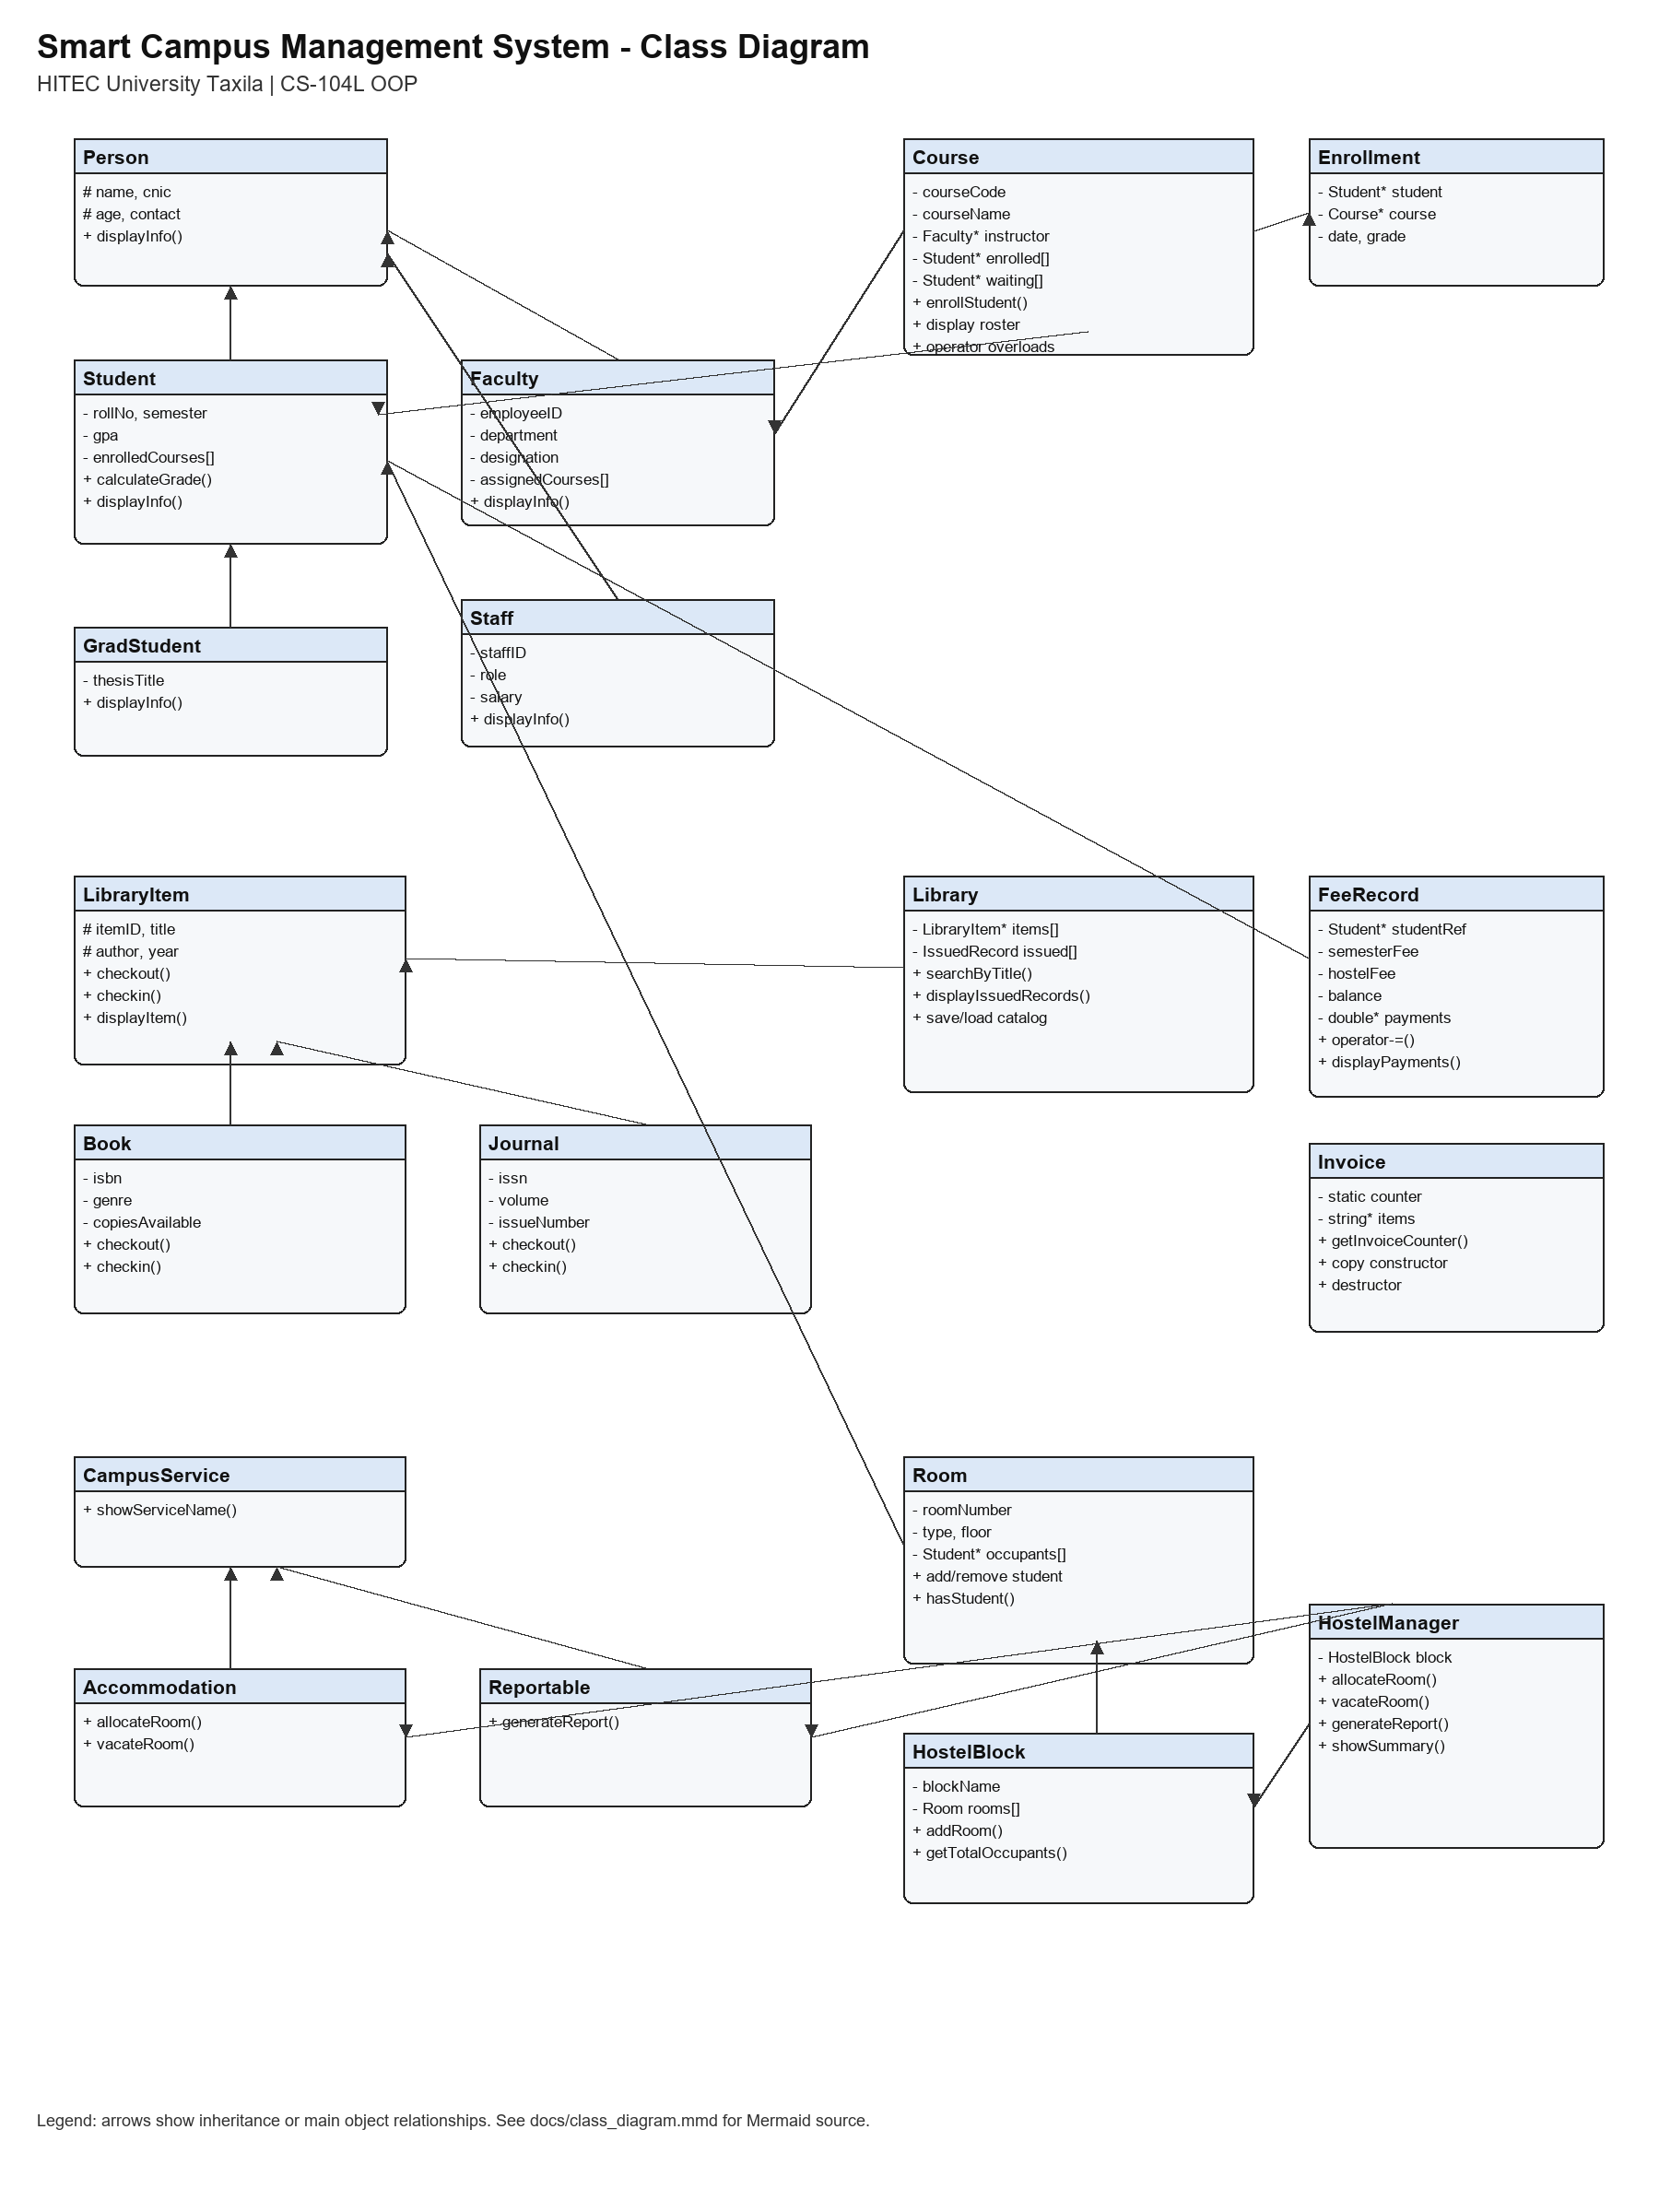
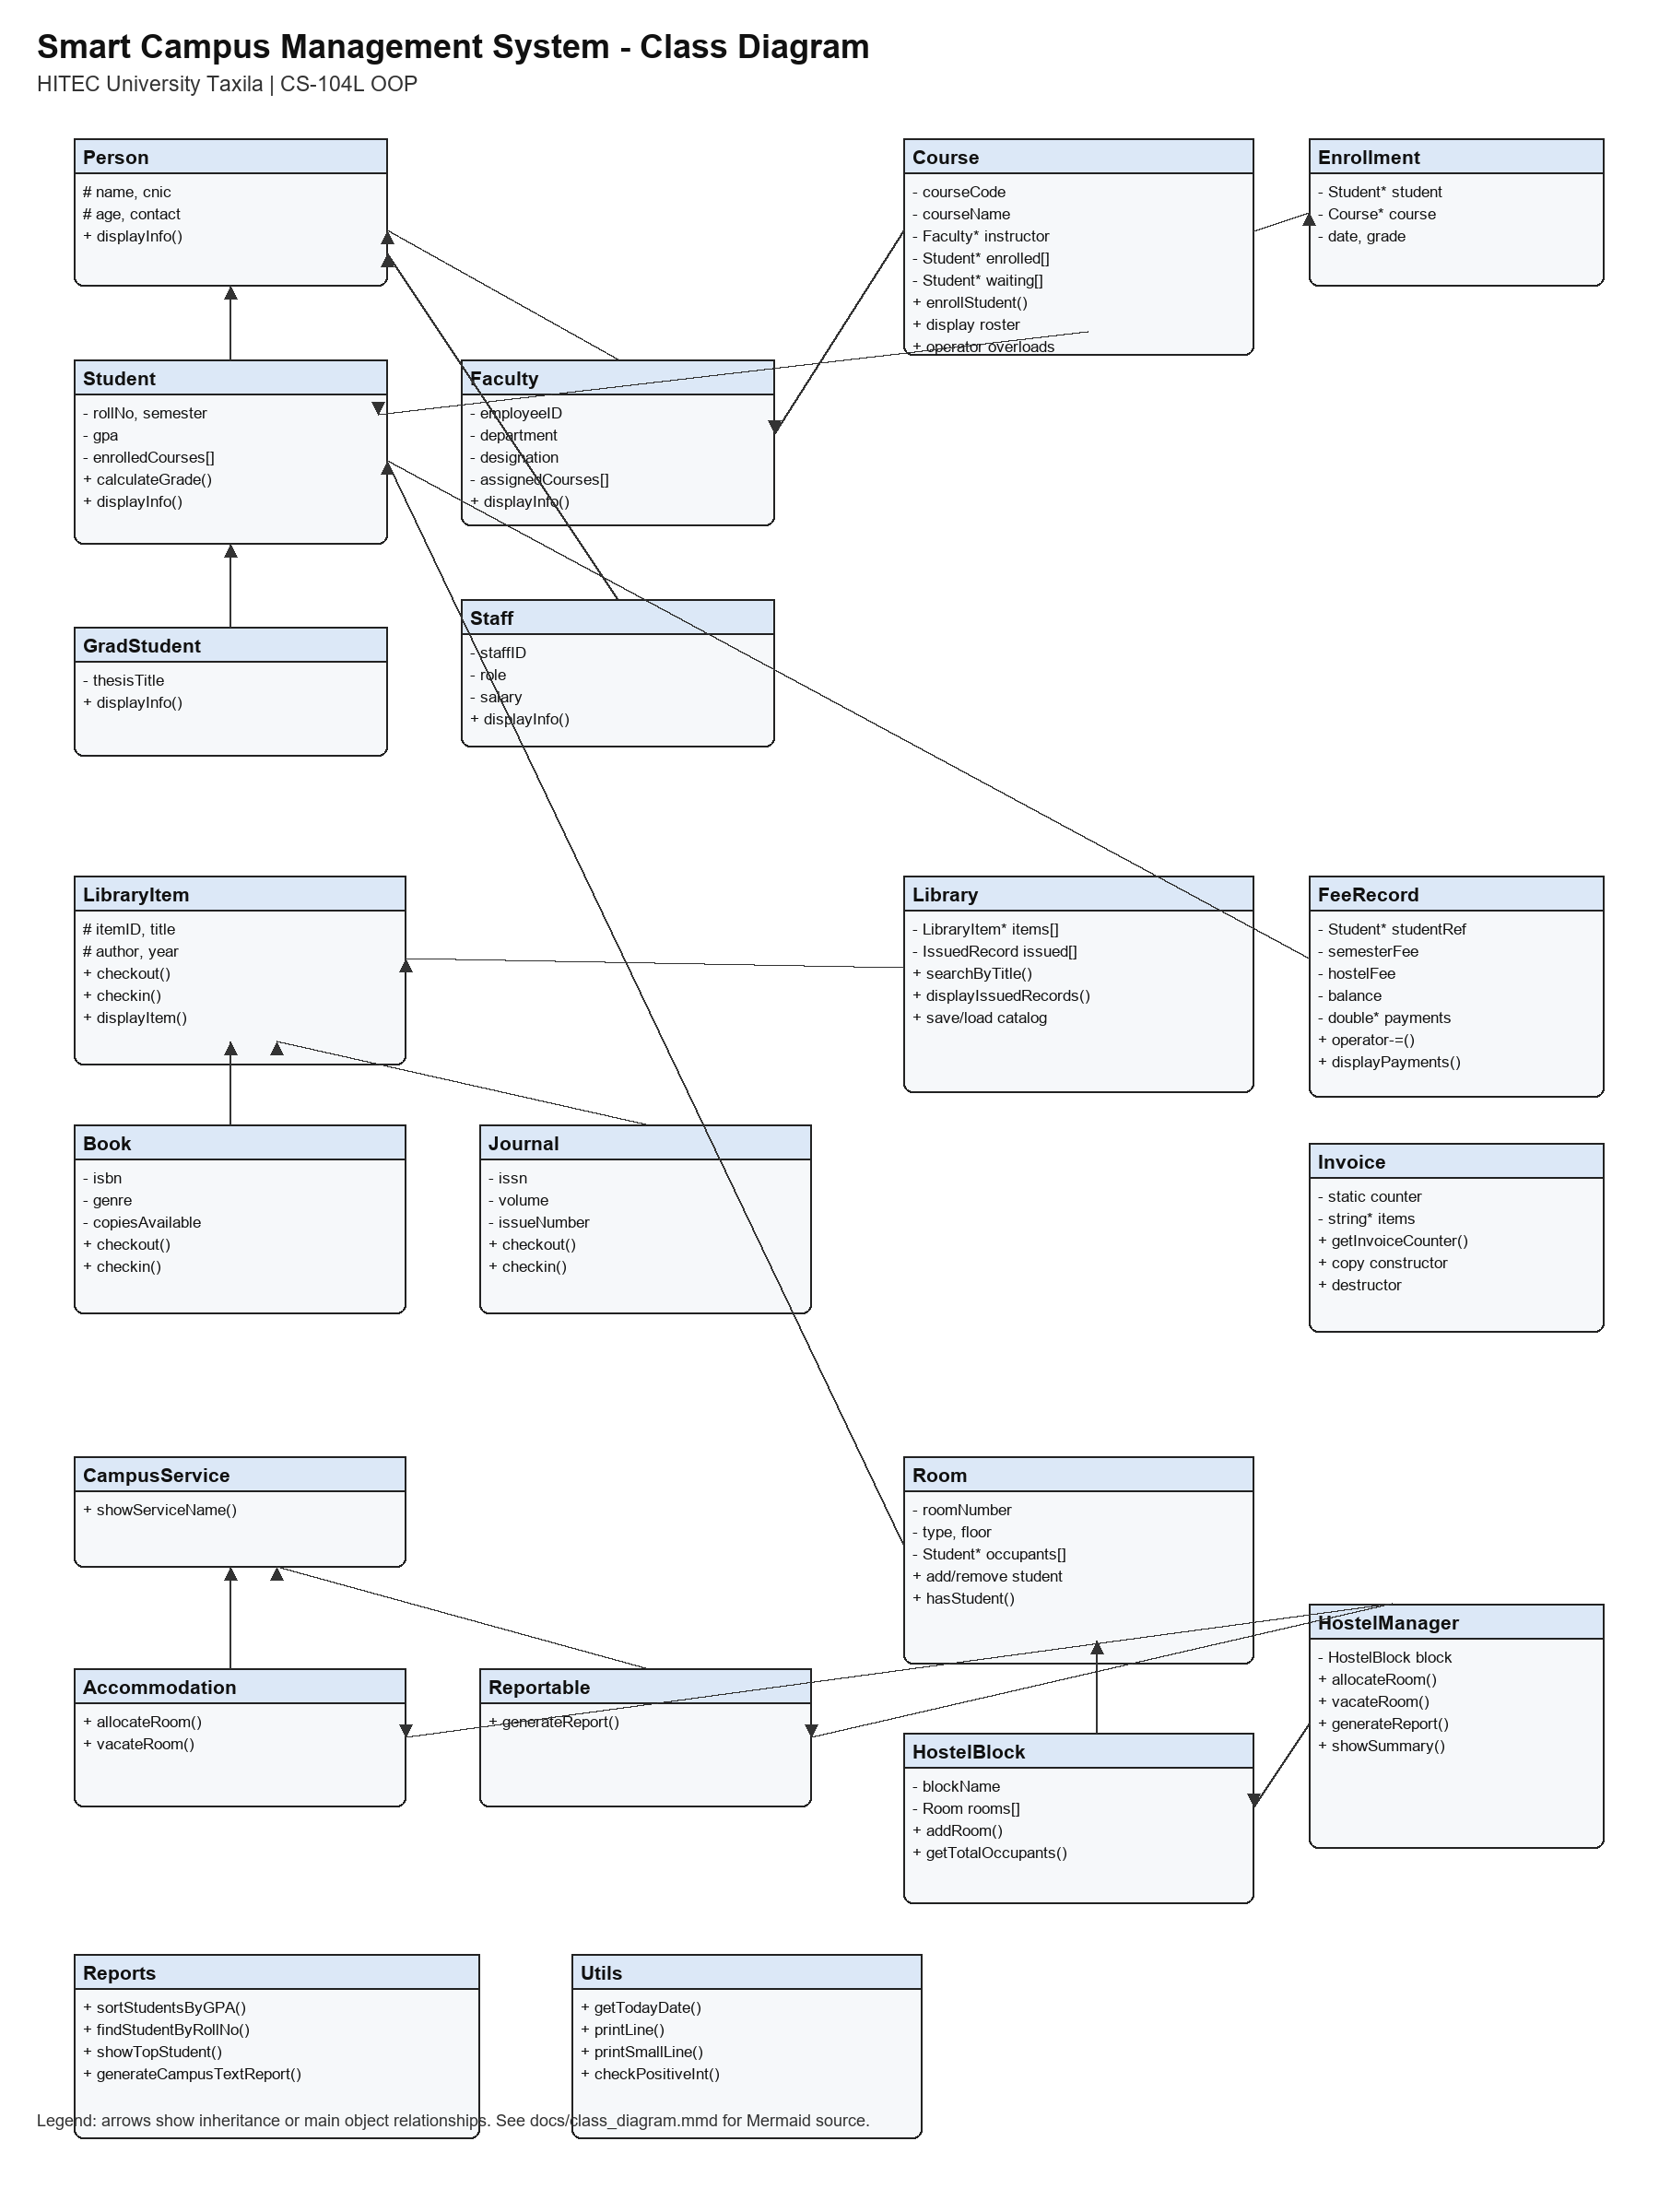
Complete module 6 reporting utilities

Changed region(s): [[0.0311, 0.875, 0.3111, 0.9375], [0.3422, 0.875, 0.56, 0.9375]]

diff --git a/src/utils/Reports.cpp b/src/utils/Reports.cpp
@@ -31,6 +31,35 @@ void Reports::showStudents(Student* students[], int count) {
     }
 }
 
+Student* Reports::findStudentByRollNo(Student* students[], int count, string rollNo) {
+    for (int i = 0; i < count; i++) {
+        if (students[i] != NULL && students[i]->getRollNo() == rollNo) {
+            return students[i];
+        }
+    }
+
+    return NULL;
+}
+
+void Reports::showTopStudent(Student* students[], int count) {
+    if (count <= 0) {
+        cout << "No student data available." << endl;
+        return;
+    }
+
+    Student* topStudent = students[0];
+
+    for (int i = 1; i < count; i++) {
+        if (students[i]->getGPA() > topStudent->getGPA()) {
+            topStudent = students[i];
+        }
+    }
+
+    cout << "\n--- Top GPA Student ---" << endl;
+    cout << topStudent->getRollNo() << " - " << topStudent->getName()
+         << " - GPA: " << topStudent->getGPA() << endl;
+}
+
 void Reports::generateCampusTextReport(Student* students[], int studentCount, Library& library, string fileName) {
     ofstream file(fileName);
 
@@ -39,17 +68,45 @@ void Reports::generateCampusTextReport(Student* students[], int studentCount, Li
         return;
     }
 
-    file << "Smart Campus Management System Report" << endl;
+    file << "============================================================" << endl;
+    file << "        SMART CAMPUS MANAGEMENT SYSTEM REPORT" << endl;
+    file << "============================================================" << endl;
     file << "Date: " << Utils::getTodayDate() << endl;
-    file << "Students: " << studentCount << endl;
+    file << "University: HITEC University Taxila" << endl;
+    file << "Course: CS-104L Object-Oriented Programming" << endl;
+    file << "Group: Ahmad Ali, Umer Altaf, Muhammed Ahmad" << endl;
+    file << "------------------------------------------------------------" << endl;
+    file << "Total Students: " << studentCount << endl;
     file << "Library Items: " << library.getItemCount() << endl;
-    file << endl;
+    file << "------------------------------------------------------------" << endl;
     file << "Student List" << endl;
+    file << "------------------------------------------------------------" << endl;
 
     for (int i = 0; i < studentCount; i++) {
         file << students[i]->getRollNo() << " - " << students[i]->getName()
              << " - GPA: " << students[i]->getGPA() << endl;
     }
+
+    file << "------------------------------------------------------------" << endl;
+    file << "Top Student" << endl;
+    file << "------------------------------------------------------------" << endl;
+
+    if (studentCount > 0) {
+        Student* topStudent = students[0];
+
+        for (int i = 1; i < studentCount; i++) {
+            if (students[i]->getGPA() > topStudent->getGPA()) {
+                topStudent = students[i];
+            }
+        }
+
+        file << topStudent->getRollNo() << " - " << topStudent->getName()
+             << " - GPA: " << topStudent->getGPA() << endl;
+    }
+
+    file << "============================================================" << endl;
+    file << "End of report" << endl;
+    file << "============================================================" << endl;
 
     file.close();
     cout << "Text report saved to " << fileName << endl;

diff --git a/src/main.cpp b/src/main.cpp
@@ -432,7 +432,9 @@ void reportsMenu(Student* students[], int studentCount, Library& library) {
     do {
         printTitle("REPORTS MODULE");
         cout << "1. Sort and show students by GPA" << endl;
-        cout << "2. Generate campus text report" << endl;
+        cout << "2. Find student by roll number" << endl;
+        cout << "3. Show top GPA student" << endl;
+        cout << "4. Generate campus text report" << endl;
         printBackOption();
         choice = readChoice();
 
@@ -440,6 +442,26 @@ void reportsMenu(Student* students[], int studentCount, Library& library) {
             Reports::sortStudentsByGPA(students, studentCount);
             Reports::showStudents(students, studentCount);
         } else if (choice == 2) {
+            string rollNo;
+            cout << "Enter roll no (press Enter for 25-CS-067): ";
+            getline(cin, rollNo);
+
+            if (rollNo == "") {
+                rollNo = "25-CS-067";
+            }
+
+            Student* found = Reports::findStudentByRollNo(students, studentCount, rollNo);
+
+            if (found != NULL) {
+                cout << "Student found:" << endl;
+                cout << found->getRollNo() << " - " << found->getName()
+                     << " - GPA: " << found->getGPA() << endl;
+            } else {
+                cout << "Student not found." << endl;
+            }
+        } else if (choice == 3) {
+            Reports::showTopStudent(students, studentCount);
+        } else if (choice == 4) {
             loadLibraryIfNeeded(library);
             Reports::generateCampusTextReport(students, studentCount, library, "data/campus_report.txt");
         } else if (choice == 0) {

diff --git a/src/utils/Utils.cpp b/src/utils/Utils.cpp
@@ -21,6 +21,10 @@ void Utils::printLine() {
     cout << "------------------------------------------------------------" << endl;
 }
 
+void Utils::printSmallLine() {
+    cout << "------------------------------" << endl;
+}
+
 int Utils::checkPositiveInt(int value) {
     if (value < 0) {
         return 0;

diff --git a/tools/generate_deliverables.py b/tools/generate_deliverables.py
@@ -81,6 +81,8 @@ def make_class_diagram():
         "Room": ((980, 1580, 1360, 1805), ["- roomNumber", "- type, floor", "- Student* occupants[]", "+ add/remove student", "+ hasStudent()"]),
         "HostelBlock": ((980, 1880, 1360, 2065), ["- blockName", "- Room rooms[]", "+ addRoom()", "+ getTotalOccupants()"]),
         "HostelManager": ((1420, 1740, 1740, 2005), ["- HostelBlock block", "+ allocateRoom()", "+ vacateRoom()", "+ generateReport()", "+ showSummary()"]),
+        "Reports": ((80, 2120, 520, 2320), ["+ sortStudentsByGPA()", "+ findStudentByRollNo()", "+ showTopStudent()", "+ generateCampusTextReport()"]),
+        "Utils": ((620, 2120, 1000, 2320), ["+ getTodayDate()", "+ printLine()", "+ printSmallLine()", "+ checkPositiveInt()"]),
     }
 
     for name, (xy, lines) in boxes.items():
@@ -236,6 +238,7 @@ def make_report(diagram_path):
         "Library demo loaded catalog data, issued B001, and showed overdue fine.",
         "Finance demo showed payment, copy constructor, copy assignment, invoice, and invoice copy.",
         "Hostel demo showed service name, allocation, duplicate check, summary, report, and vacate room.",
+        "Reports demo sorted students, searched roll number, showed top GPA student, and generated campus report.",
         "Reports demo sorted students by GPA and created data/campus_report.txt.",
         "Wrong input test with abc did not freeze the program.",
     ])

diff --git a/src/utils/Reports.h b/src/utils/Reports.h
@@ -20,6 +20,8 @@ using namespace std;
 namespace Reports {
     void sortStudentsByGPA(Student* students[], int count);
     void showStudents(Student* students[], int count);
+    Student* findStudentByRollNo(Student* students[], int count, string rollNo);
+    void showTopStudent(Student* students[], int count);
     void generateCampusTextReport(Student* students[], int studentCount, Library& library, string fileName);
 }
 

diff --git a/src/utils/Utils.h b/src/utils/Utils.h
@@ -18,6 +18,7 @@ using namespace std;
 namespace Utils {
     string getTodayDate();
     void printLine();
+    void printSmallLine();
     int checkPositiveInt(int value);
 }
 

diff --git a/docs/module6_status.md b/docs/module6_status.md
@@ -1,0 +1,65 @@
+# Module 6 Status - Reporting and Utilities
+
+Status: Complete and tested.
+
+## Required Files
+
+- `Reports.h`
+- `Reports.cpp`
+- `Utils.h`
+- `Utils.cpp`
+
+## Required Operations
+
+- Sort students by GPA.
+- Search student by roll number.
+- Show top GPA student.
+- Generate consolidated campus text report.
+- Use helper functions for date and formatting.
+- Use `std::sort` with custom comparator.
+- Use loops for search and report output.
+
+## Report Output
+
+The report is written to:
+
+```text
+data/campus_report.txt
+```
+
+It includes:
+
+- Project heading
+- Date
+- University/course/group information
+- Total student count
+- Library item count
+- Student list
+- Top student by GPA
+
+## OOP/Programming Concepts Covered
+
+- Reporting functions
+- Utility helper functions
+- Sorting with `std::sort`
+- Searching with loops
+- File output with `ofstream`
+- Array traversal
+
+## Where It Is Tested
+
+Run:
+
+```text
+Home -> 6. Reports Module -> 1. Sort and show students by GPA
+Home -> 6. Reports Module -> 2. Find student by roll number
+Home -> 6. Reports Module -> 3. Show top GPA student
+Home -> 6. Reports Module -> 4. Generate campus text report
+```
+
+Expected result:
+
+- Students display in GPA order.
+- Roll number search finds `25-CS-067`.
+- Top student displays.
+- `data/campus_report.txt` is generated.

diff --git a/docs/testing_log.md b/docs/testing_log.md
@@ -73,6 +73,9 @@ C++ Basics
 6
 1
 2
+25-CS-067
+3
+4
 0
 0
 ```
@@ -84,7 +87,7 @@ Result:
 - Library module loaded/showed library items, searched title, issued book `B001`, returned with overdue fine, displayed issued records, and saved catalog.
 - Finance module showed fee payment, payment history, fee copy, fee assignment, invoice copy, invoice assignment, and static counter.
 - Hostel module printed service name, allocated students, blocked duplicate allocation, showed summary, printed occupancy report, and vacated one student.
-- Reports module sorted students by GPA and wrote `data/campus_report.txt`.
+- Reports module sorted students by GPA, searched by roll number, showed top GPA student, and wrote `data/campus_report.txt`.
 - Every module used `0. Back to Home`.
 - Home option `0` exited program.
 

diff --git a/docs/manual_test_plan.md b/docs/manual_test_plan.md
@@ -49,7 +49,9 @@ Then test menu choices:
 | 5 then 5 | Prints occupancy report |
 | 5 then 6 | Vacates Ahmad Ali room |
 | 6 then 1 | Sorts students by GPA |
-| 6 then 2 | Writes `data/campus_report.txt` |
+| 6 then 2 | Finds student by roll number |
+| 6 then 3 | Shows top GPA student |
+| 6 then 4 | Writes `data/campus_report.txt` |
 | module 0 | Returns to home menu |
 | 0 | Exits the program |
 

diff --git a/docs/oop_concepts_checklist.md b/docs/oop_concepts_checklist.md
@@ -26,7 +26,7 @@ This file maps the assignment checklist to files in this project. Read the code 
 | 20 | File I/O | `Library::saveCatalog()`, `Library::loadCatalog()`, report file output |
 | 21 | Reports and utilities | `Reports.h/.cpp`, `Utils.h/.cpp` |
 | 22 | Memory management | `new Book`, `new Journal`, `delete` in `Library`, `new[]/delete[]` in `FeeRecord` and `Invoice` |
-| 23 | Sorting and searching | `Reports::sortStudentsByGPA()`, `Library::searchByTitle()` |
+| 23 | Sorting and searching | `Reports::sortStudentsByGPA()`, `Reports::findStudentByRollNo()`, `Library::searchByTitle()` |
 | 24 | Composition | `HostelManager` contains a `HostelBlock` object, `HostelBlock` contains Room objects |
 | 25 | Aggregation | `Course` keeps `Faculty* instructor`, `Room` keeps `Student* occupants[]` |
 

diff --git a/README.md b/README.md
@@ -103,6 +103,7 @@ The home menu opens each module separately. Inside a module, select the task you
 - `docs/module3_status.md`: Library System completion status
 - `docs/module4_status.md`: Fee and Finance completion status
 - `docs/module5_status.md`: Hostel Management completion status
+- `docs/module6_status.md`: Reporting and Utilities completion status
 - `docs/oop_concepts_checklist.md`: where each OOP concept is used
 - `docs/viva_questions_full.md`: viva questions and short answers
 - `docs/phase2_status.md`: Library and Finance phase status

diff --git a/docs/project_documentation.md b/docs/project_documentation.md
@@ -44,6 +44,7 @@ Detailed status files:
 - `docs/module3_status.md`
 - `docs/module4_status.md`
 - `docs/module5_status.md`
+- `docs/module6_status.md`
 
 ## Phase 2 Summary
 